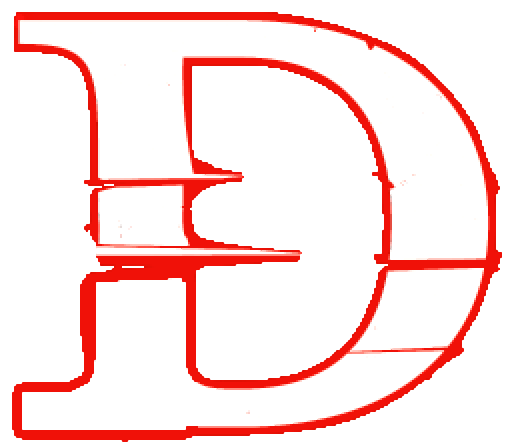
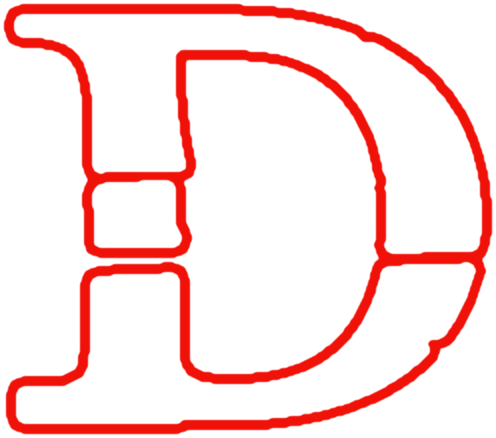
Red Hades letters: one even, smooth red outline
The outline was the logo's own rough red, thick in places, thin in others,
with streak ends and ticks along it. Each letter's white face is now
smoothed a little and given an even round-cornered red band (cut band:
shape round, join 0 so the slash gaps stay open, visible_face, face
colour, smooth), and the 2x redraw softens the curves so they have no
source-pixel steps. The A's spike keeps its red tip. Balatro, Hades II and
Gungeon regenerate unchanged.

Claude-Session: https://claude.ai/code/session_01LaEujuuQLDmiMkvddHrYGk

Changed region(s): [[0.0, 0.0, 0.998, 1.0]]

diff --git a/tools/logo_letters.py b/tools/logo_letters.py
@@ -89,7 +89,11 @@ so Godot never imports the source), is JSON:
                   "band": {"colour": [r, g, b], "width": px, "close": n,
                   "open": n, "skip": [pieces]} — for letters set in a plate:
                   the letter tidied into one shape, with an even band of the
-                  plate's colour round it instead of the plate as cut;
+                  plate's colour round it instead of the plate as cut. Also
+                  for a rough inked outline (red Hades): "shape": "round",
+                  "join": 0 (keep gaps split on purpose), "visible_face": true,
+                  "face_colour": [r, g, b], "keep": [{"piece", "polygon"}] for
+                  ink drawn past the outline (a spike);
                   "hard_edge": [pieces] — pixel-font letters, every pixel fully
                   on or off; "scale": n — write the letters n times the logo's
                   size, shapes redrawn crisp (for a small source logo; an
@@ -301,9 +305,11 @@ def _upscale(A, out, box, band_masks, s, hard=False, face=None):
     w, h = (x1 - x0) * s, (y1 - y0) * s
     crop = Image.fromarray(out[y0:y1, x0:x1])
 
-    def cover(mask):
-        # the mask scaled smoothly, then sharpened to a one-pixel soft edge
-        v = np.asarray(Image.fromarray((mask * 255).astype(np.uint8)).resize((w, h), Image.LANCZOS), float) / 255
+    def cover(mask, sigma=0.0):
+        # the mask scaled smoothly, then sharpened to a one-pixel soft edge;
+        # with sigma, softened first so a curve has no source-pixel steps
+        m = nd.gaussian_filter(mask.astype(float), sigma) if sigma else mask.astype(float)
+        v = np.asarray(Image.fromarray((m * 255).astype(np.uint8)).resize((w, h), Image.LANCZOS), float) / 255
         return np.clip((v - 0.5) * 2.5 + 0.5, 0, 1)
 
     def extend(colours, mask):
@@ -324,14 +330,15 @@ def _upscale(A, out, box, band_masks, s, hard=False, face=None):
         return Image.fromarray(np.dstack([rgb.clip(0, 255), cover(sil) * 255]).astype(np.uint8))
     if hard or band_masks is None:
         return crop.resize((w, h), Image.NEAREST)
-    clean, grown, plate = (m[y0:y1, x0:x1] if m.ndim == 2 else m for m in band_masks)
+    clean, grown, plate = (m[y0:y1, x0:x1] if m.ndim == 2 else m for m in band_masks[:3])
+    soft = band_masks[3] if len(band_masks) > 3 else 0
 
     # the letter's colours, run out past its edge so the redrawn edge never
     # shows the plate's black from inside
     _, (iy, ix) = nd.distance_transform_edt(~clean, return_indices=True)
-    inside = A[y0:y1, x0:x1, :3][iy, ix].clip(0, 255).astype(np.uint8)
+    inside = out[y0:y1, x0:x1, :3][iy, ix].clip(0, 255).astype(np.uint8)
     hi = np.asarray(Image.fromarray(inside).resize((w, h), Image.NEAREST), float)
-    c_letter, c_band = cover(clean), cover(grown)
+    c_letter, c_band = cover(clean, soft * 0.6), cover(grown, soft * 0.6)
     rgb = hi * c_letter[..., None] + plate * (1 - c_letter[..., None])
     alpha = np.maximum(c_letter, c_band)
     return Image.fromarray(np.dstack([rgb.clip(0, 255), alpha * 255]).astype(np.uint8))
@@ -525,26 +532,56 @@ def cut(cfg_path: Path, preview: Path | None = None) -> list[Path]:
                 # the letter is tidied into one clean shape and given an even
                 # band of the plate's colour, with the logo's 45-degree corners.
                 st4 = nd.generate_binary_structure(2, 1)
-                clean = nd.binary_closing(f, st4, iterations=band_cfg.get("close", 3))
-                clean = nd.binary_opening(clean, st4, iterations=band_cfg.get("open", 1))
+                # the face as it stands once erasing is done
+                base = (f & keep) | painted if band_cfg.get("visible_face") else f
+                clean = base
+                if band_cfg.get("close", 3):
+                    clean = nd.binary_closing(clean, st4, iterations=band_cfg.get("close", 3))
+                if band_cfg.get("open", 1):
+                    # (thin slivers off: the slash's white streak caught in an outline)
+                    clean = nd.binary_opening(clean, st4, iterations=band_cfg.get("open", 1))
+                if band_cfg.get("smooth"):
+                    # ticks and hooks a ragged hand-drawn face leaves, smoothed off
+                    clean = nd.gaussian_filter(clean.astype(float), band_cfg["smooth"]) > 0.5
+                if cut.get("min_part"):
+                    lab_c, ncl = nd.label(clean, structure=np.ones((3, 3)))
+                    if ncl:
+                        sizes = nd.sum(clean, lab_c, range(1, ncl + 1))
+                        clean &= ~np.isin(lab_c, 1 + np.flatnonzero(sizes < cut["min_part"]))
                 # The band's outer edge is grown from the WHOLE letter, its
                 # parts joined across the plate lines between them first, so the
                 # edge runs straight past a join instead of dipping in a V
                 # between the two parts' corners.
                 # (a SQUARE closing: a diamond one leaves a small V of its own)
-                whole = nd.binary_closing(clean, np.ones((3, 3)), iterations=band_cfg.get("join", 5),
-                                          border_value=0) | clean
-                grown = whole.copy()
-                for k in range(band_cfg.get("width", 5)):  # square, cross, square...: an octagon
-                    grown = nd.binary_dilation(grown, structure=np.ones((3, 3)) if k % 2 == 0 else st4)
+                # An inked logo whose letters are split on purpose (red Hades'
+                # slash) sets join 0, so its gaps stay open.
+                whole = clean
+                if band_cfg.get("join", 5):
+                    whole = nd.binary_closing(clean, np.ones((3, 3)), iterations=band_cfg["join"] if "join" in band_cfg else 5,
+                                              border_value=0) | clean
+                if band_cfg.get("shape") == "round":  # serif letters: an even band, round corners
+                    grown = nd.distance_transform_edt(~whole) <= band_cfg.get("width", 5)
+                else:
+                    grown = whole.copy()
+                    for k in range(band_cfg.get("width", 5)):  # square, cross, square...: an octagon
+                        grown = nd.binary_dilation(grown, structure=np.ones((3, 3)) if k % 2 == 0 else st4)
+                # ink the logo drew past any outline (red Hades' A spike) kept
+                for kp in band_cfg.get("keep", []):
+                    if kp["piece"] == n:
+                        grown |= _polygon_mask((H, W), kp["polygon"]) & keep & ~clean & (a > 127)
+                face_rgb = rgb.copy()
                 rgb[:] = 0
                 al[:] = 0
-                rgb[clean] = A[clean][:, :3]
+                if "face_colour" in band_cfg:
+                    rgb[clean] = band_cfg["face_colour"]
+                else:
+                    rgb[clean] = A[clean][:, :3]
                 al[clean] = 1
                 ring = grown & ~clean
-                band_masks = (clean, grown, np.array(band_cfg["colour"], float))
+                band_masks = (clean, grown, np.array(band_cfg["colour"], float), band_cfg.get("smooth", 0))
                 rgb[ring] = band_cfg["colour"]
                 al[ring] = 1
+                face = None
         else:
             fs = nd.gaussian_filter(f.astype(float), FILL_SMOOTH_SIGMA) > 0.5 if smooth else f
             ds = nd.distance_transform_edt(~fs)
